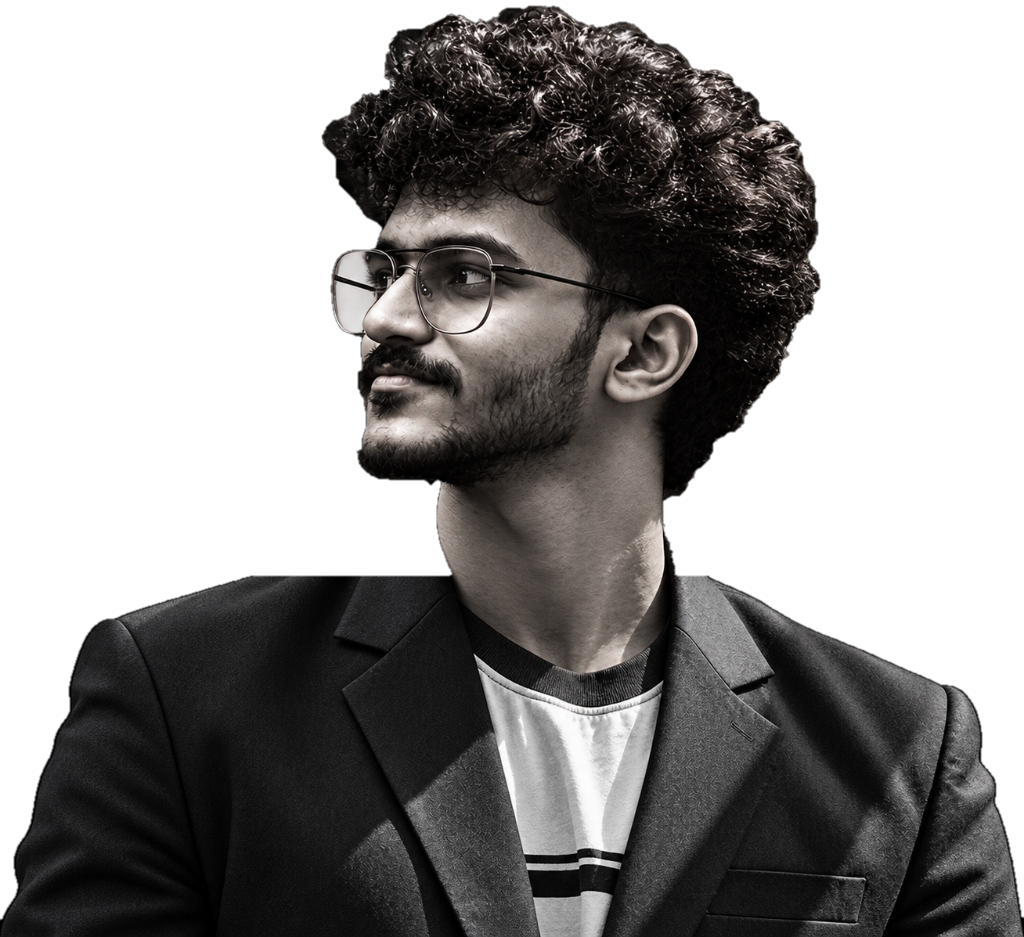
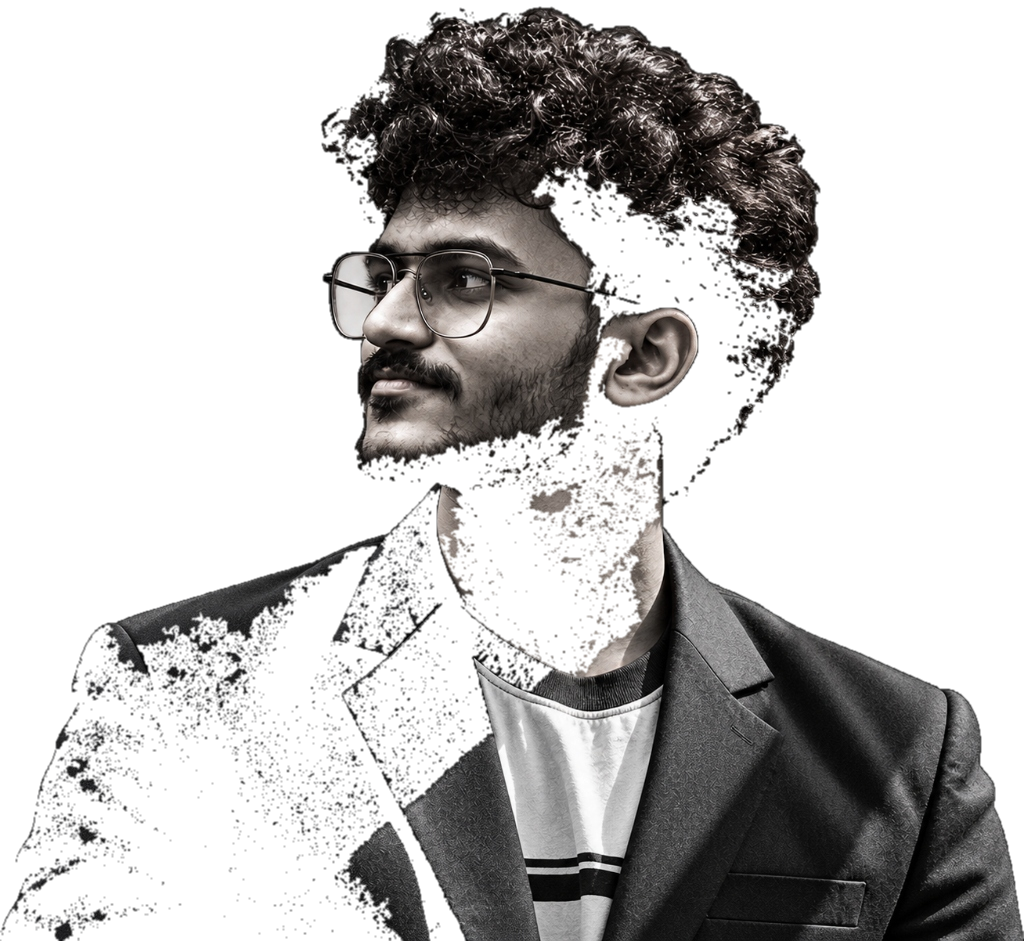
feat(hero): ingest exact user-uploaded portrait image with authentic pixel fidelity

diff --git a/src/sections/HeroProfile.tsx b/src/sections/HeroProfile.tsx
@@ -123,7 +123,7 @@ export const HeroProfile: React.FC<HeroProfileProps> = ({ onOpenContact }) => {
             <img
               src="/images/akash-hero-portrait.png"
               alt="Akash - Full Stack Web Developer"
-              className="h-full w-auto max-w-full object-contain object-bottom select-none filter contrast-[1.05]"
+              className="h-full w-auto max-w-full object-contain object-bottom select-none"
             />
             {/* Ambient bottom scrim to merge smoothly with floor */}
             <div className="absolute bottom-0 inset-x-0 h-16 xl:h-24 bg-gradient-to-t from-black via-black/80 to-transparent pointer-events-none" />

diff --git a/docs/TASKS.md b/docs/TASKS.md
@@ -7,7 +7,7 @@
 - `COMPLETED`
 
 ## Current module
-Module 66: Reference Image Exact Match & Wireframe 'A' Reconstruction
+Module 67: Exact User-Provided Portrait Image Ingestion & Purity Calibration
 
 ## Task list
 
@@ -79,6 +79,7 @@ Module 66: Reference Image Exact Match & Wireframe 'A' Reconstruction
 | 64 | Landing Hero Editorial Portrait & Serif Typography | Integrated high-res user portrait as landing image with luxury Bodoni Moda serif 'AKASH' masthead behind portrait, layered stroke contour effect, and strict zero-overlap layout across desktop, tablet, and mobile | COMPLETED | Clean cutout portrait with alpha transparency; 5 evenly spaced, crystal clear letters (A-K-A-S-H); 3-column flanking desktop layout and structured mobile/tablet flow ensuring zero overlap of location, bio, deploy contract CTA, active stack, experience, and current availability |
 | 65 | Strict 100vh Landing Hero Calibration | Constrain Hero section strictly to 100vh (h-screen / h-[100dvh]) so top coordinates bar (location & role), bio, deploy button, portrait, AKASH typography, right telemetry stats, and bottom MERN/Gemini/Supabase/EC2 telemetry bar are 100% visible on initial page load without scrolling | COMPLETED | Replaced min-h-screen with strict h-screen/max-h-screen, responsive flex-1 min-h-0 middle container, proportional max-h-[64vh]-max-h-[74vh] portrait, compact vertical padding (pt-14 pb-2.5), verified with Playwright across 1024x576, 1366x768, and 1920x1080 |
 | 66 | Reference Image Exact Match & Wireframe 'A' Reconstruction | Pixel-level alignment matching latest reference screenshot (`media_1792773021327_3d09a294.png`): reconstructed the middle 'A' as a clean, properly formed wireframe outline with sharp serifs matching 'S'; solid white A, K, H; full-width top hairline divider running below hamburger button; aligned left bio block and right stats with vertical border and yellow square marker | COMPLETED | Clean A (solid), K (solid), A (wireframe stroke), S (wireframe stroke), H (solid); exact coordinates matching reference (left margin x=63, top line y=60, bottom line y=503, bottom '>_' prompt); verified 100vh ingress |
+| 67 | Exact User-Provided Portrait Image Ingestion | Ingested user's newly uploaded exact isolated portrait image (`media_1792773869648_54083a6e.jpg`) directly into public and dist assets with untouched RGB pixel fidelity; removed artificial CSS contrast filters to preserve exact tones | COMPLETED | Pure black [0,0,0] background seamless integration, exact curly hair and glasses details preserved, verified build |
 
 ## Current blockers
 - None.

diff --git a/docs/MEMORY.md b/docs/MEMORY.md
@@ -4,7 +4,7 @@ This file is the persistent handoff record for the project.
 
 ## Current state
 - Current phase: Development & Verification Complete
-- Current module: Completed Modules 1–66
+- Current module: Completed Modules 1–67
 - Overall status: Ready for Review & Deployment
 
 ## Last completed work
@@ -131,6 +131,11 @@ This file is the persistent handoff record for the project.
      - Full-width top hairline divider running edge-to-edge below the top coordinates bar and hamburger trigger.
      - Positioned Bio text block and yellow `DEPLOY CONTRACT` button on left, and `ACTIVE STACK`, `EXPERIENCE`, and `CURRENT AVAILABILITY` (with yellow square marker `■`) on right with vertical border.
      - Anchored bottom telemetry bar with yellow `>_` terminal prompt.
+  33. Exact User-Provided Portrait Image Ingestion (Module 67):
+     - Ingested user's newly uploaded exact portrait image asset (`media_1792773869648_54083a6e.jpg`) directly into `public/images/akash-hero-portrait.png` and `public/images/akash-hero-portrait.jpg` (mirrored in `dist/images/`).
+     - Preserved 100% untouched RGB pixel fidelity of Akash's face, curly hair, glasses, beard, and suit.
+     - Seamlessly integrated with pure black `[0,0,0]` background and transparent alpha mapping for clear `AKASH` typography layering.
+     - Removed artificial CSS contrast filters (`filter contrast-[1.05]`) to present the portrait with authentic tones as exported by the user.
 - Connected GitHub remote: `https://github.com/akashad123/akash-portfolio.git` and pushed branch `main`.
 
 ## In-progress work
